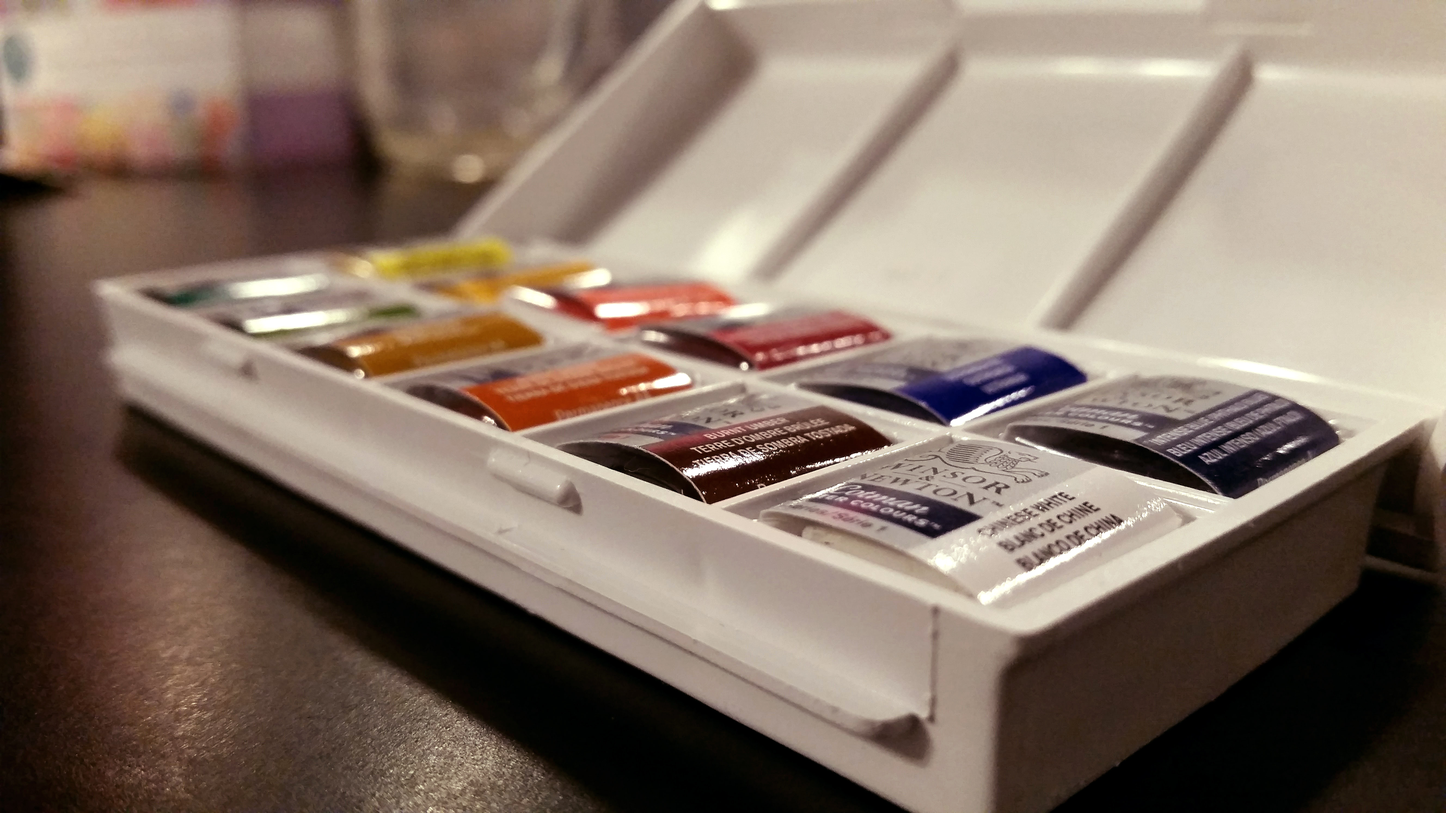
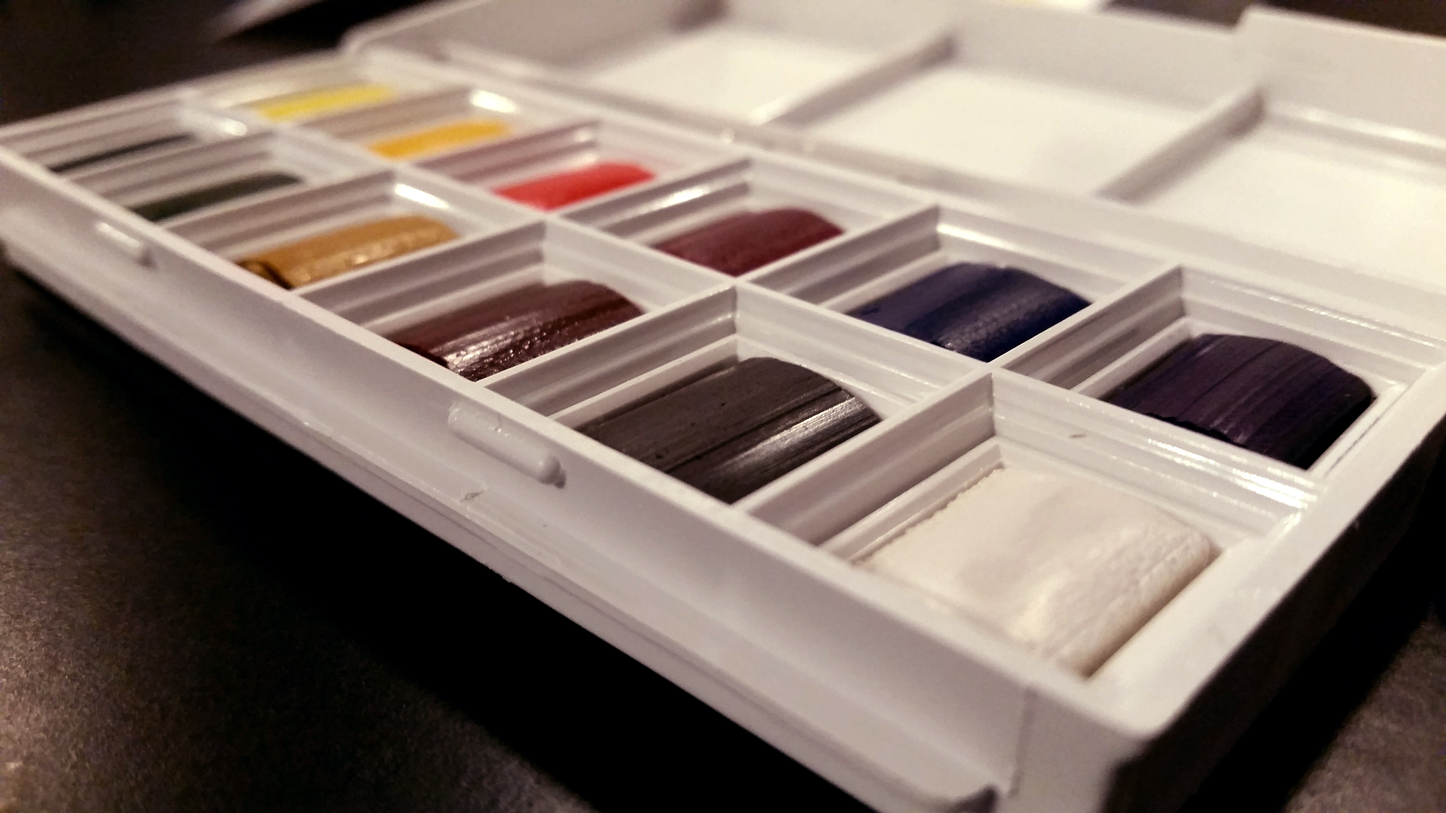
blog post

diff --git a/_posts/2017-06-08-My-Watercolor-Adventure.md b/_posts/2017-06-08-My-Watercolor-Adventure.md
@@ -9,7 +9,7 @@ I've been fiddling around with some old Crayola watercolors and cheap Walmart pa
 ![supplies]({{ site.url }}/img/wc_supplies.jpg)
 I decided to go with the Winsor & Newton Sketcher's Pocket Box and a small Strathmore watercolor notebook. I got the pocket box because it was the cheapest Winsor & Newton set they had and I figured having a limited range of colors would teach me how to mix colors rather than rely on premade colors. With the paper I picked whatever looked best, as I had no idea what brands were good or not. With a little more research I learned that Strathmore is actually a pretty good brand, though I'm not sure I actually got their better paper.
 ![paints]({{ site.url }}/img/wc_paints.jpg)
-![paints closeup]({{ site.url }}/img/wc_paintscloseup2.jpg)
+![paints closeup]({{ site.url }}/img/wc_paintscloseup.jpg)
 So I drew a quick picture with my trusty Pilot Metropolitan filled with Noodler's Black. I was very happy to find it didn't feather like the cheap Walmart paper or take forever to dry like ultra smooth or coated paper does.
 ![unfinished painting]({{ site.url }}/img/wc_picture.jpg)
 I probably should have stretched the paper, but I had already drawn the outlines. Oh well. The watercolors were much easier to direct than the cheap ones I've used before. I actually had fun using watercolors! My brother also painted a picture and agrees that these are MUCH better than the ones used at school.
